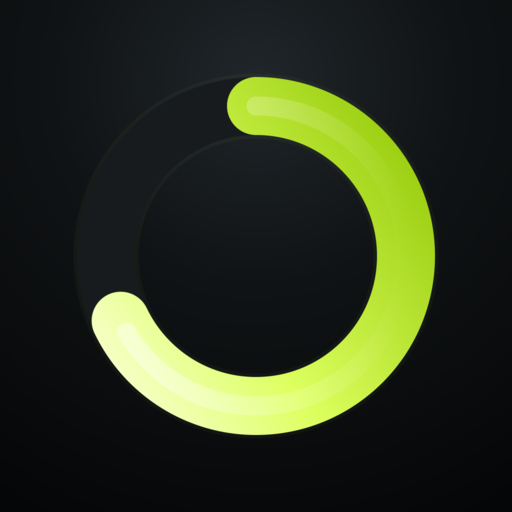
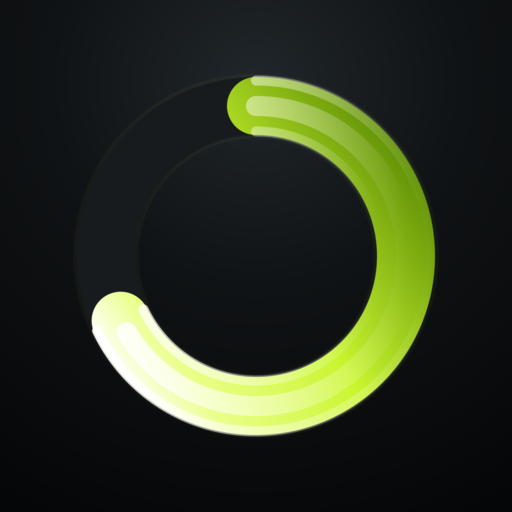
图标：加强玻璃高光，内外圈亮边

Changed region(s): [[0.1562, 0.125, 0.875, 0.875]]

diff --git a/sw.js b/sw.js
@@ -1,5 +1,5 @@
 /* 离线缓存：让 App 在没网的时候也能打开 */
-const CACHE = 'ledger-v51';
+const CACHE = 'ledger-v52';
 const ASSETS = [
   './',
   './index.html',
